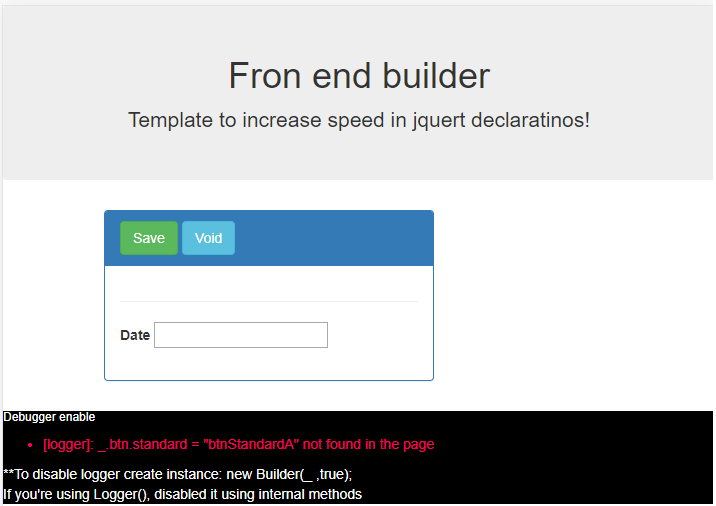
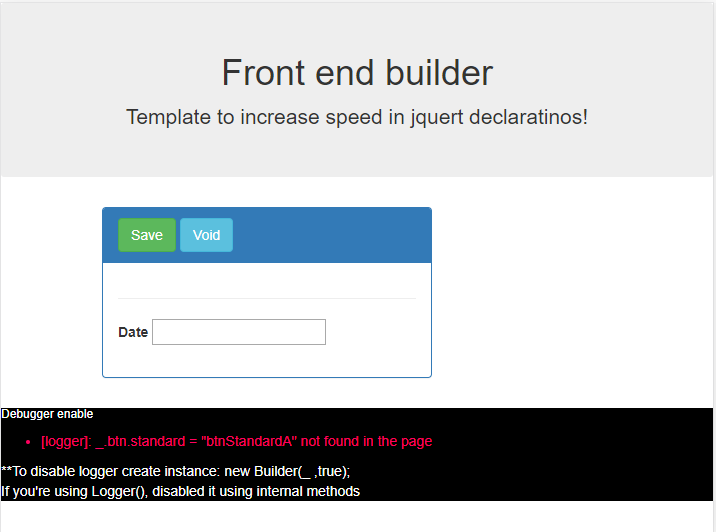
Img added

diff --git a/script.js b/script.js
@@ -5,7 +5,6 @@ function FormName(){
         _.btn = {};
         _.btn.save = "btnSaveForm";
         _.btn.void = "btnVoidForm";
-        _.btn.standard = "btnStandardA";
 
         _.onClick = {};
         _.onClick.save = (evt) => {
@@ -15,9 +14,6 @@ function FormName(){
         _.onClick.void = (evt) => {
             _.bld.logger.log("void click");
         };
-        _.onClick.standard = () => {
-            _.bld.logger.log("standard click");
-        }
     }
 
     { // Form items
@@ -49,18 +45,8 @@ function FormName(){
 
     _.constructor = () =>{
         _.bld = new BuilderForm(_, false);   
-        // _.bld.definitions.FormObject = "frmItems2";
         _.bld.build();
-
-        // $(`#${_.frmInputs.input1}`).AnovoDateStandard_560();
-
-
-        // $(`#${_.btn.standard}`).AnovoBtnAccept();
-        // $(`#${_.btn.standard}`).AnovoBtnUpdate();
     }
-
-    
-
     _.constructor();
 }
 

diff --git a/index.html b/index.html
@@ -21,7 +21,7 @@
 <body>
 
   <div class="jumbotron text-center">
-    <h1>Fron end builder</h1>
+    <h1>Front end builder</h1>
     <p>Template to increase speed in jquert declaratinos!</p>
   </div>
   

diff --git a/README.md b/README.md
@@ -31,3 +31,12 @@ _.onClick.firstbutton = (evt) => {
 ```
 
 4. Is everything was declared correctly the logger panel will display a succes message in each step builded it
+
+## Display error and suggest how you can fix it
+
+![Error building automate builder](https://raw.githubusercontent.com/jagel/javascript-debugger/master/img/demo/ErrorView.png)
+
+## Display information refarding in each auto builder
+
+![Error building automate builder](https://raw.githubusercontent.com/jagel/javascript-debugger/master/img/demo/SuccessView.png)
+
